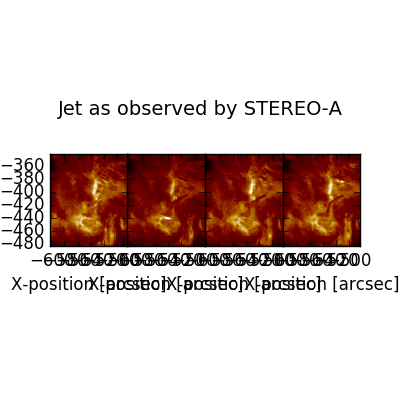
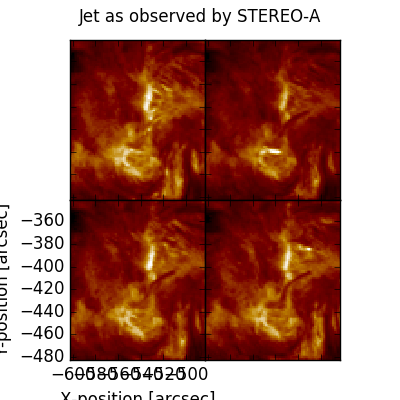
Figure updates

diff --git a/paper/ms_temp_paper.tex b/paper/ms_temp_paper.tex
@@ -112,11 +112,27 @@ We have utilised a self-built, manual feature measuring tool, which, uses a clic
 Using this tool on each frame, and therefore the time cadence of the instrument, we obtain the evolution of the jet and general ballistic information.
 We have used this tool on each wavelength to examine the extent upwards through the corona. 
 
+\subsection{Onset}
 The jet feature is observed in high resolution as it forms using SST and, fortunately, we can resolve initial stages of the jet formation.
 The jet is observed to initiate in the core of H$\alpha$ with two small bright points forming, and an ensuing jet developing above it. 
 This behaviour is in keeping with the standard jet formation model demonstrated by \cite{Shibata1992}, where the authors describe an 'inverted y' shape of brightened material that is a result of small scale flux emergence reconnection.
 
 Observations in SDO record the entire lifetime of the feature, however the same is not true for observations using the SST, where the observation window in SST closes at $07:48:00$.
+
+
+
+\subsection{STEREO-A}
+We are fortunate that we can observe the jet feature in the STEREO-A Heliospheric Imager (HI), with the position of the spacecraft at approximately $90\deg$ to the Sun-Earth line.
+This facilitates the building of a larger picture of the behaviour of the jet, the downside to this however, is that with STEREO-A being at such a distance the cadence is low, $~10$ mins.
+In this case we obtain 4 images in $30.4$ nm in which the jet is observed
+
+\begin{figure}[]
+	\includegraphics[width=\columnwidth]{../figures/STEREO-A.png} 
+	\caption{HI $30.4$ nm images at $07:26:15$, $07:36:15$, $07:46:15$ and $07:56:15$ going from left to right.}
+\end{figure}
+
+
+
 
 \section{Doppler shift}
 \label{dop_shift_sect}
